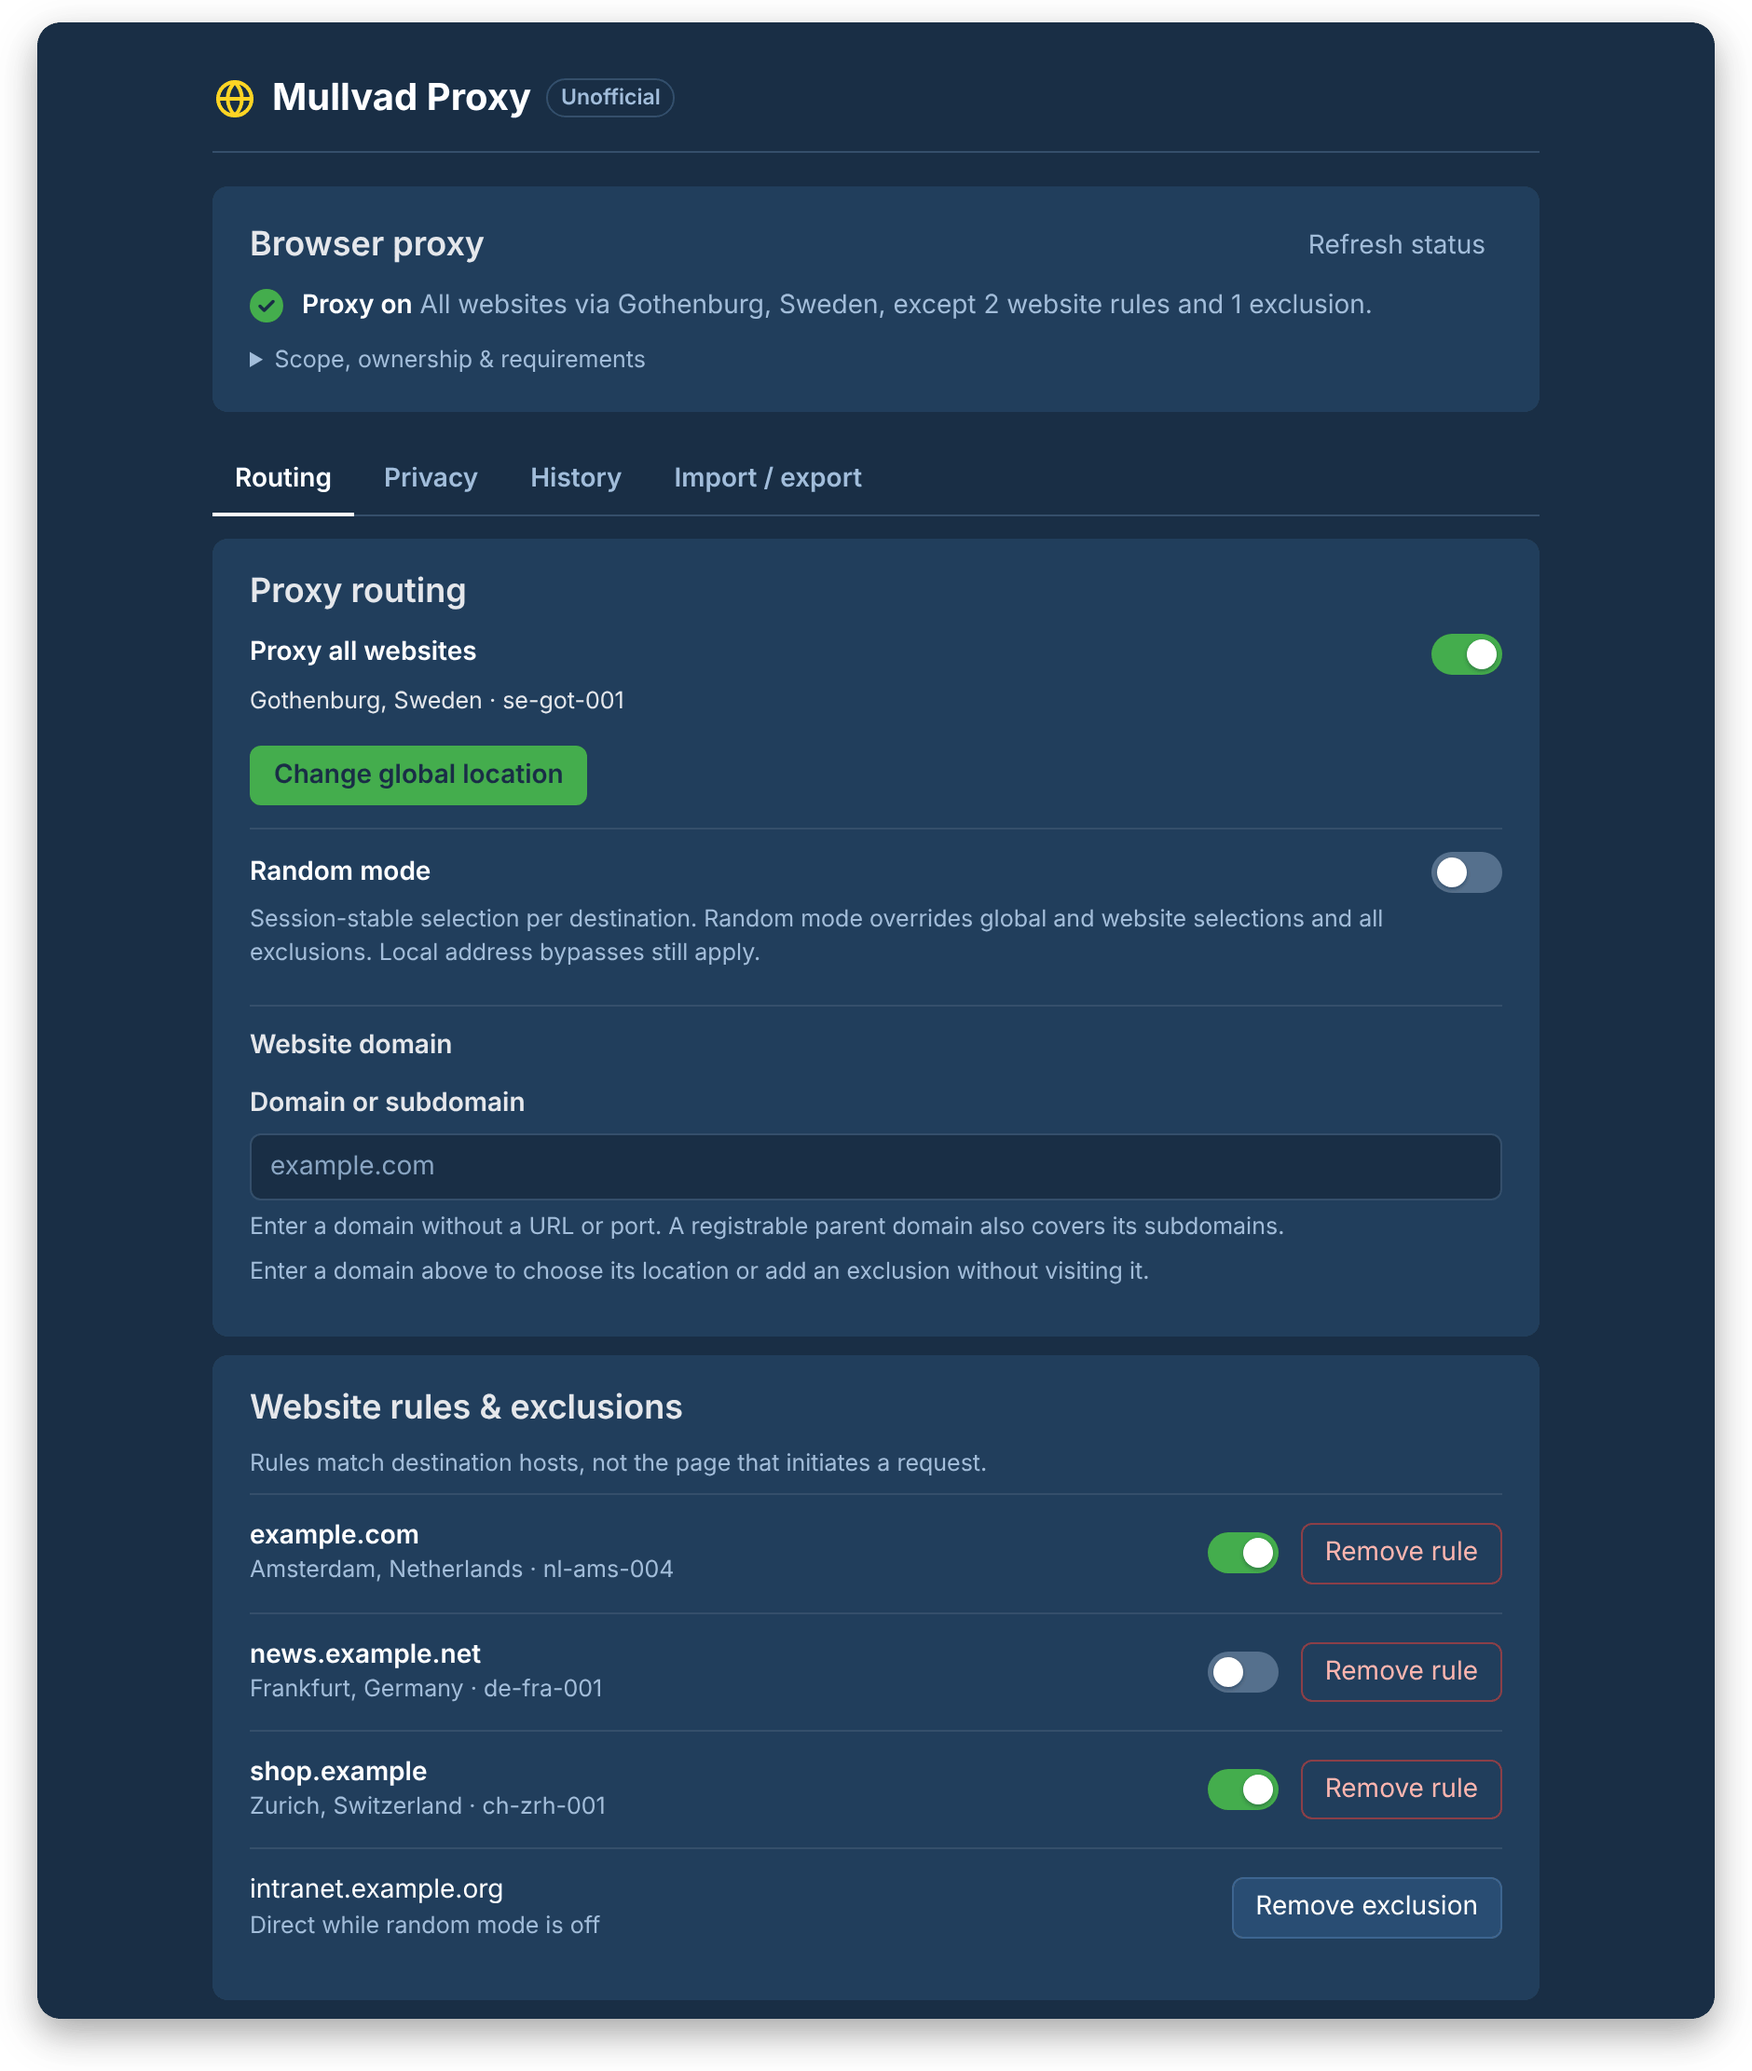
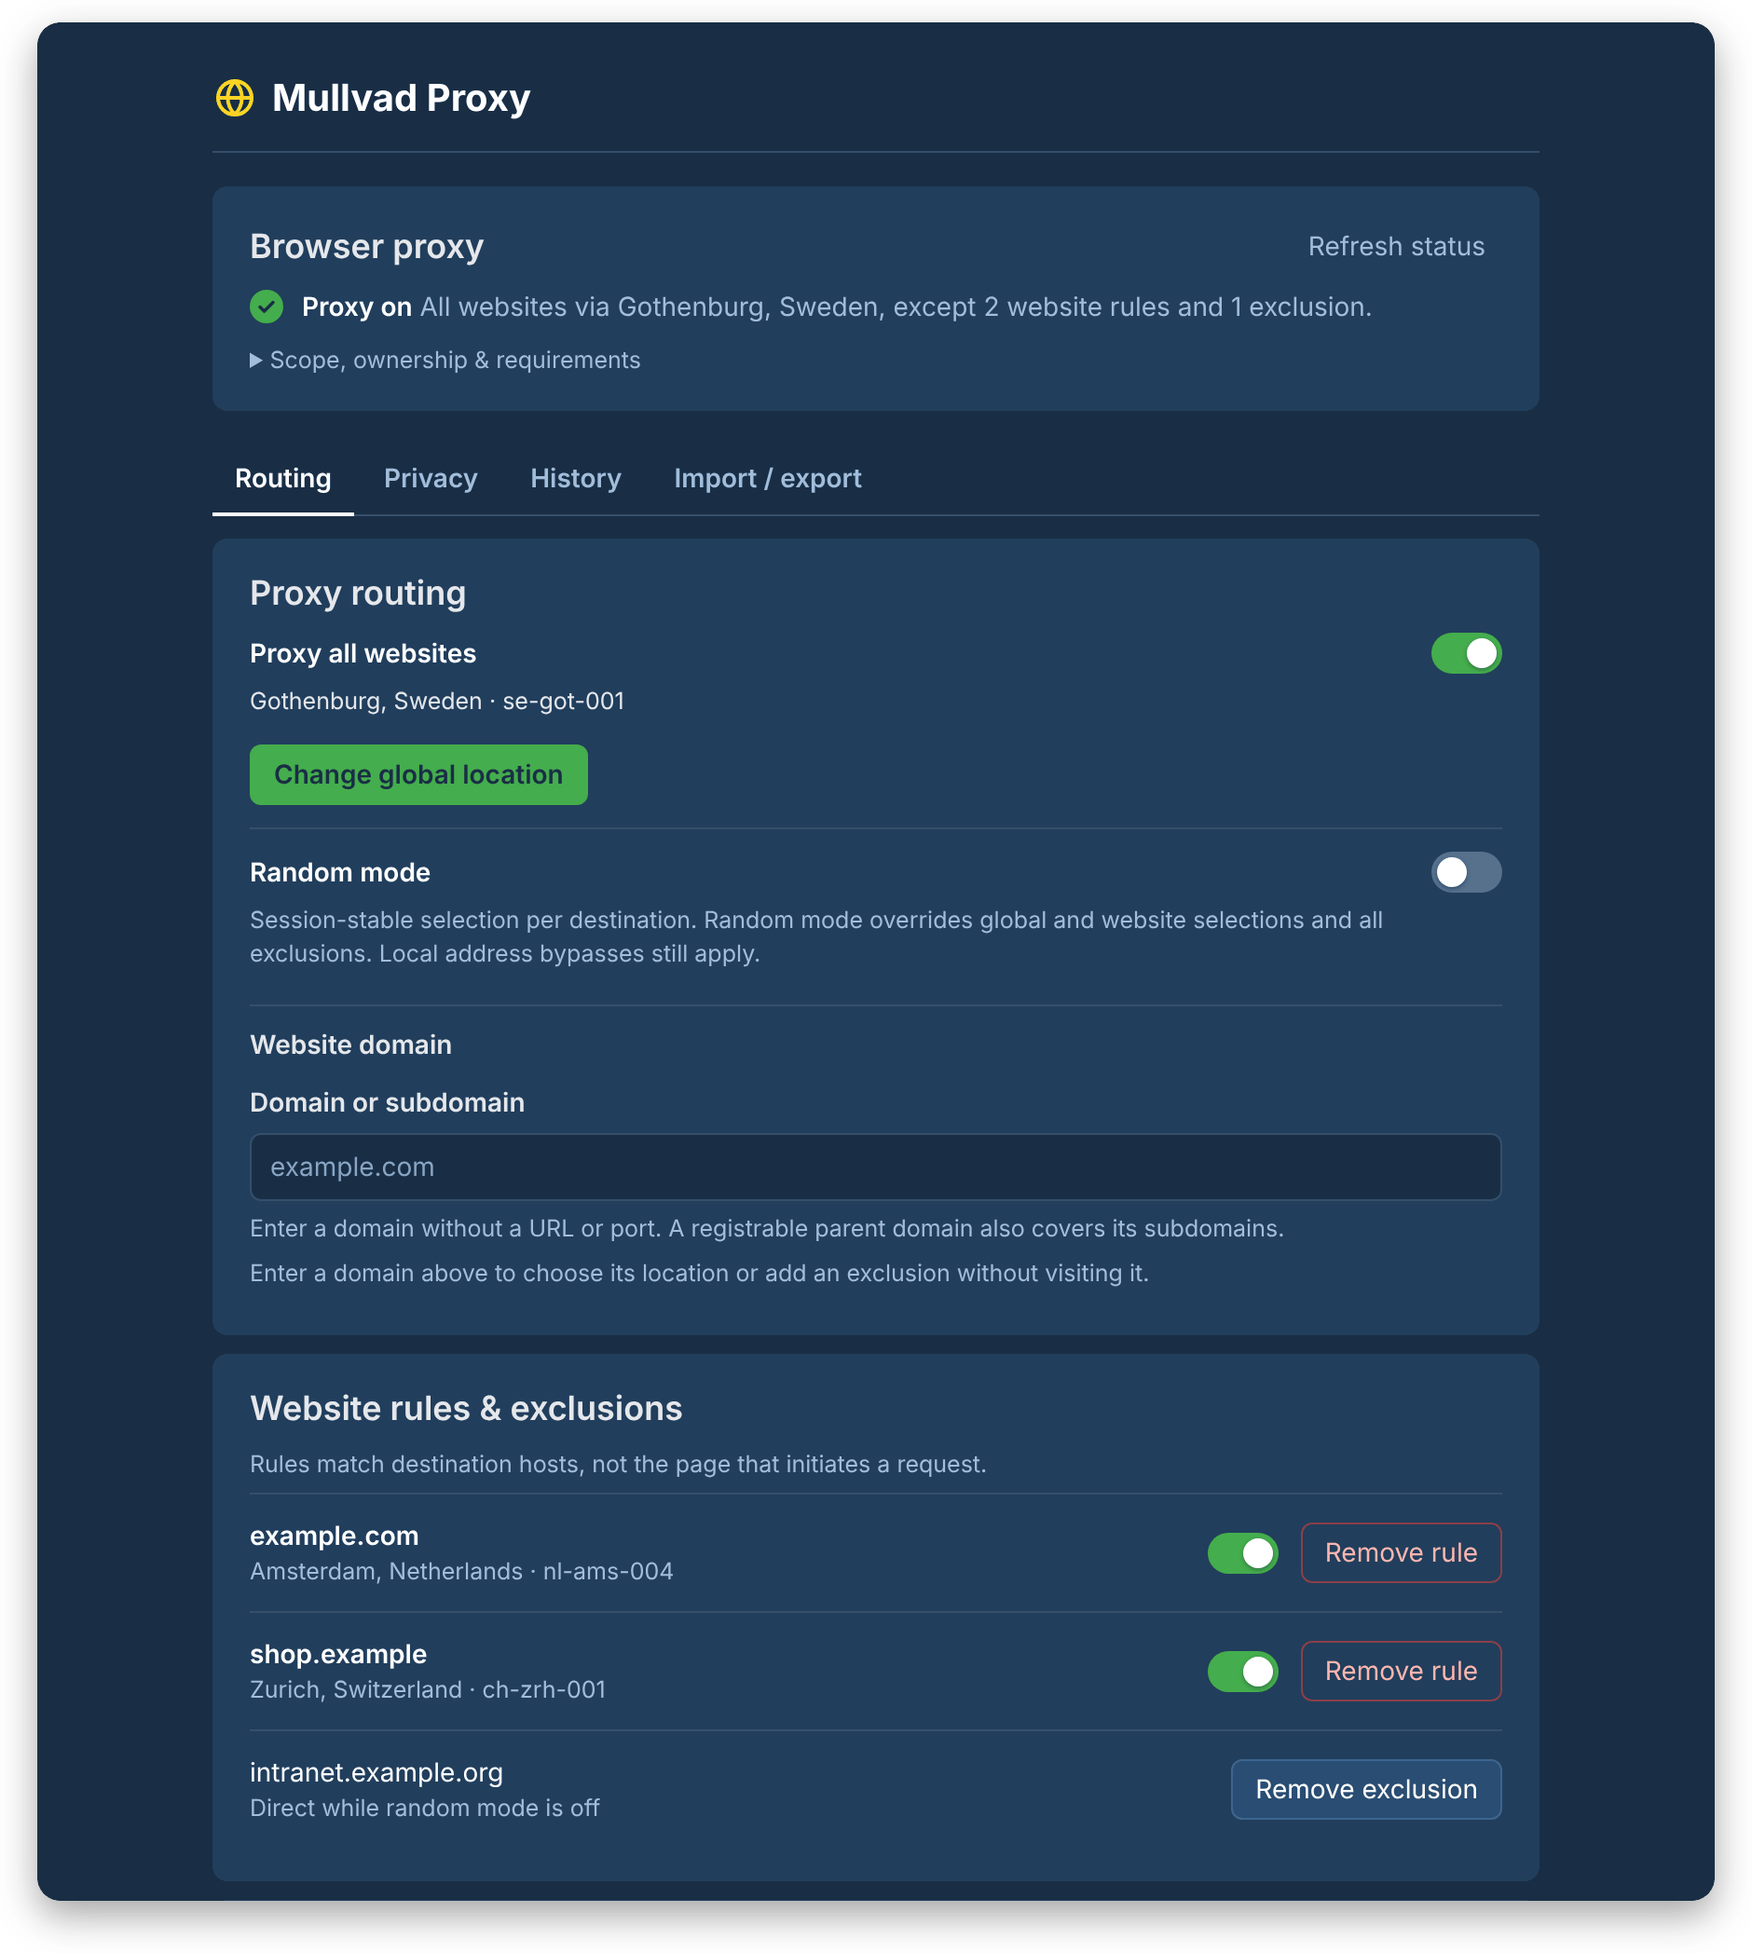
Update README for popup checks, current website and favorites

diff --git a/README.md b/README.md
@@ -7,8 +7,8 @@ An unofficial Chrome Manifest V3 port of the [Mullvad browser extension](https:/
 ## What it does
 
 - Select a Mullvad SOCKS5 server for the browser or individual destination hosts.
-- Manage website rules, exclusions, session-random routing, and location history.
-- Inspect IPv4, IPv6, and DNS observations through Mullvad's connection-check services.
+- Manage website rules, exclusions, session-random routing, favorites, and location history.
+- Check IPv4, IPv6, and DNS through Mullvad's connection-check services when the popup opens and after each routing change.
 - Configure supported Chrome privacy controls and import compatible Firefox settings exports.
 
 Mullvad SOCKS5 servers require an existing Mullvad VPN connection. The extension does not create a VPN tunnel.
@@ -17,13 +17,13 @@ Mullvad SOCKS5 servers require an existing Mullvad VPN connection. The extension
 
 <p align="center">
   <img src="docs/screenshots/popup.png" width="32%" alt="Popup with the proxy on for all websites through Gothenburg, Sweden, except two website rules and one exclusion" />
-  <img src="docs/screenshots/locations.png" width="32%" alt="Location picker filtered to Swedish relays, with se-got-001 marked in use" />
-  <img src="docs/screenshots/connection-check.png" width="32%" alt="IPv4, IPv6 and DNS checks, each reporting Mullvad" />
+  <img src="docs/screenshots/current-site.png" width="32%" alt="Current website news.example.org following the global location, above IPv4, IPv6 and DNS checks that each report Mullvad" />
+  <img src="docs/screenshots/locations.png" width="32%" alt="Location picker with two favorites and two recent locations above the full relay list" />
 </p>
-<p align="center"><sub>The popup, the relay picker and the connection checks. The checks show example addresses.</sub></p>
+<p align="center"><sub>The popup, the current website with its connection checks, and the location picker. The checks show example addresses.</sub></p>
 
 <p align="center">
-  <img src="docs/screenshots/options.png" width="75%" alt="Options page with the global route, three website rules and one exclusion" />
+  <img src="docs/screenshots/options.png" width="75%" alt="Options page with the global route, two website rules and one exclusion" />
 </p>
 <p align="center"><sub>Routing settings, website rules and exclusions on the options page.</sub></p>
 
@@ -59,7 +59,7 @@ The extension uses mandatory Chrome PAC configuration and does not append a dire
 
 Connection checks describe the browser route used by the check request. They do not establish the active website's route or prevent DNS leaks. Chrome's WebRTC control restricts non-proxied UDP; it does not disable WebRTC. Firefox's per-site proxy DNS toggle has no equivalent here.
 
-To use the popup in private windows, enable **Allow in Incognito** in the extension's Chrome details. Regular routing is inherited until a private-session override is set. Private routing overrides expire when the last Incognito window closes, and private usage does not enter location history. The Settings button opens regular, persistent settings. Reload-after-change uses one preference for both popup contexts; change it in regular settings. Incognito diagnostics are unavailable because a spanning service worker cannot guarantee that its requests use the private route.
+To use the popup in private windows, enable **Allow in Incognito** in the extension's Chrome details. Regular routing is inherited until a private-session override is set. Private routing overrides expire when the last Incognito window closes, and private usage does not enter location history. The Settings button opens regular, persistent settings. Reload-after-change uses one preference for both popup contexts; change it in regular settings. Favorites are shared the same way and change only in regular windows. Incognito diagnostics are unavailable because a spanning service worker cannot guarantee that its requests use the private route.
 
 Import previews identify incompatible settings before replacement. Firefox exports using unsupported DNS settings or unrecognized proxy endpoints require correction; importing them must not silently discard their routing intent.
 
